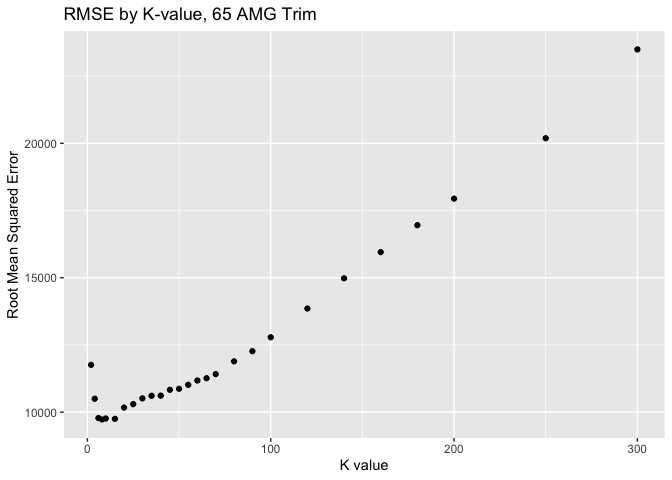
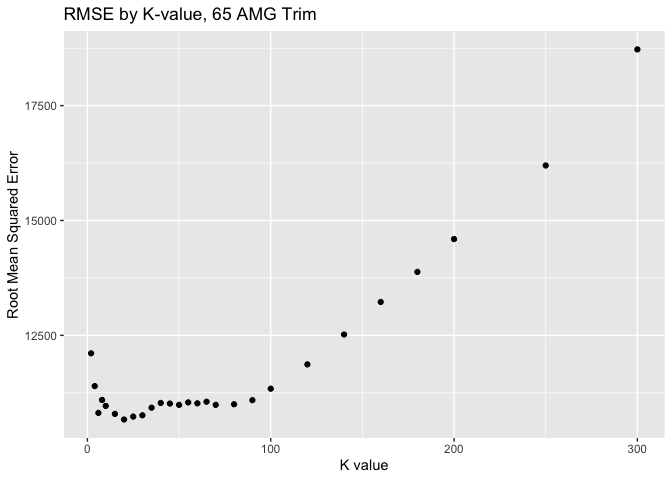
Super double final version

diff --git a/Exercise 1/Exercise-1.md b/Exercise 1/Exercise-1.md
@@ -91,21 +91,6 @@ competitors across all Athletics events is 186 cm.
 
 ### B) Which single women’s event had the greatest variability in competitor’s heights across the entire history of the Olympics, as measured by the standard deviation?
 
-    ## # A tibble: 132 × 2
-    ##    event                                          sd
-    ##    <chr>                                       <dbl>
-    ##  1 Athletics Women's 1,500 metres               5.03
-    ##  2 Athletics Women's 10 kilometres Walk         4.31
-    ##  3 Athletics Women's 10,000 metres              5.41
-    ##  4 Athletics Women's 100 metres                 6.29
-    ##  5 Athletics Women's 100 metres Hurdles         4.68
-    ##  6 Athletics Women's 20 kilometres Walk         5.28
-    ##  7 Athletics Women's 200 metres                 5.14
-    ##  8 Athletics Women's 3,000 metres               5.48
-    ##  9 Athletics Women's 3,000 metres Steeplechase  6.06
-    ## 10 Athletics Women's 4 x 100 metres Relay       5.57
-    ## # … with 122 more rows
-
 Women’s Rowing Coxed Fours was the most variable event, with a standard
 deviation of 10.87.
 
@@ -130,10 +115,30 @@ deviation of 10.87.
 
  
 
+## Extra work for Problem 2: Interesting result of heights by gender in Summer vs. Winter Games
+
     ## `summarise()` has grouped output by 'sex'. You can override using the `.groups`
     ## argument.
 
 ![](Exercise-1_files/figure-markdown_strict/2.extra-1.png)
+
+ 
+
+In this graph we see the male heights of Olympic athletes on top and the
+female heights on bottom. Since the Summer and Winter Games were in the
+same year before 1992, the data was combined, so we can’t see a
+distinction between heights of competitors in Summer vs. Winter Games.
+In the years since 1992, the Games have been two years apart, so we can
+now plot the height for both men and women by whether they competed in
+the Summer or Winter Games.
+
+Interestingly, the difference in male heights between the Summer and
+Winter Games is small relative to the difference in female heights. The
+variability in female heights also remains relatively constant over time
+compared to the male variability, which has been increasing slightly
+over time.
+
+ 
 
 ## Exercise 3
 
@@ -162,9 +167,9 @@ is?*
 
 ![](Exercise-1_files/figure-markdown_strict/3.1-1.png)![](Exercise-1_files/figure-markdown_strict/3.1-2.png)
 
-    ## [1] 9750.549
+    ## [1] 10790.67
 
-    ## [1] 28103.78
+    ## [1] 18827.41
 
 ![](Exercise-1_files/figure-markdown_strict/3.2-1.png)![](Exercise-1_files/figure-markdown_strict/3.2-2.png)
 
